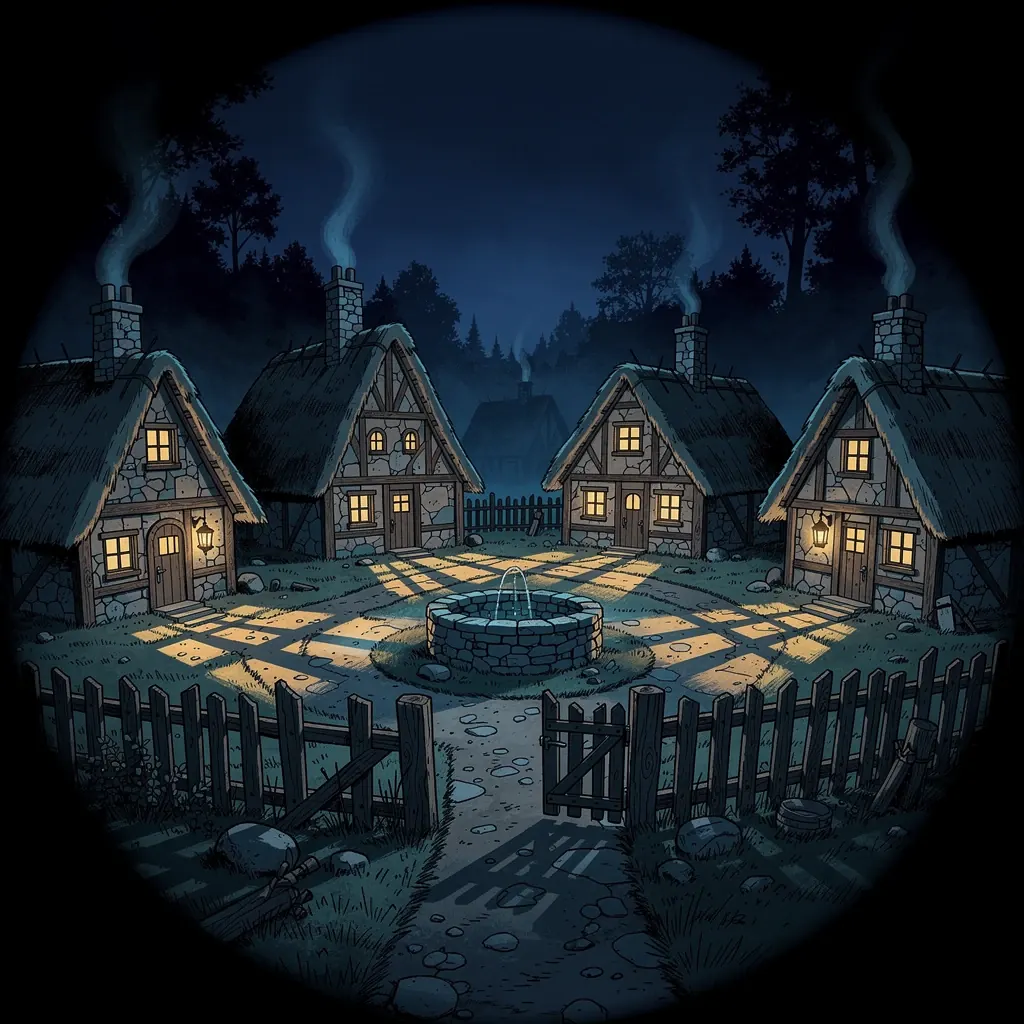
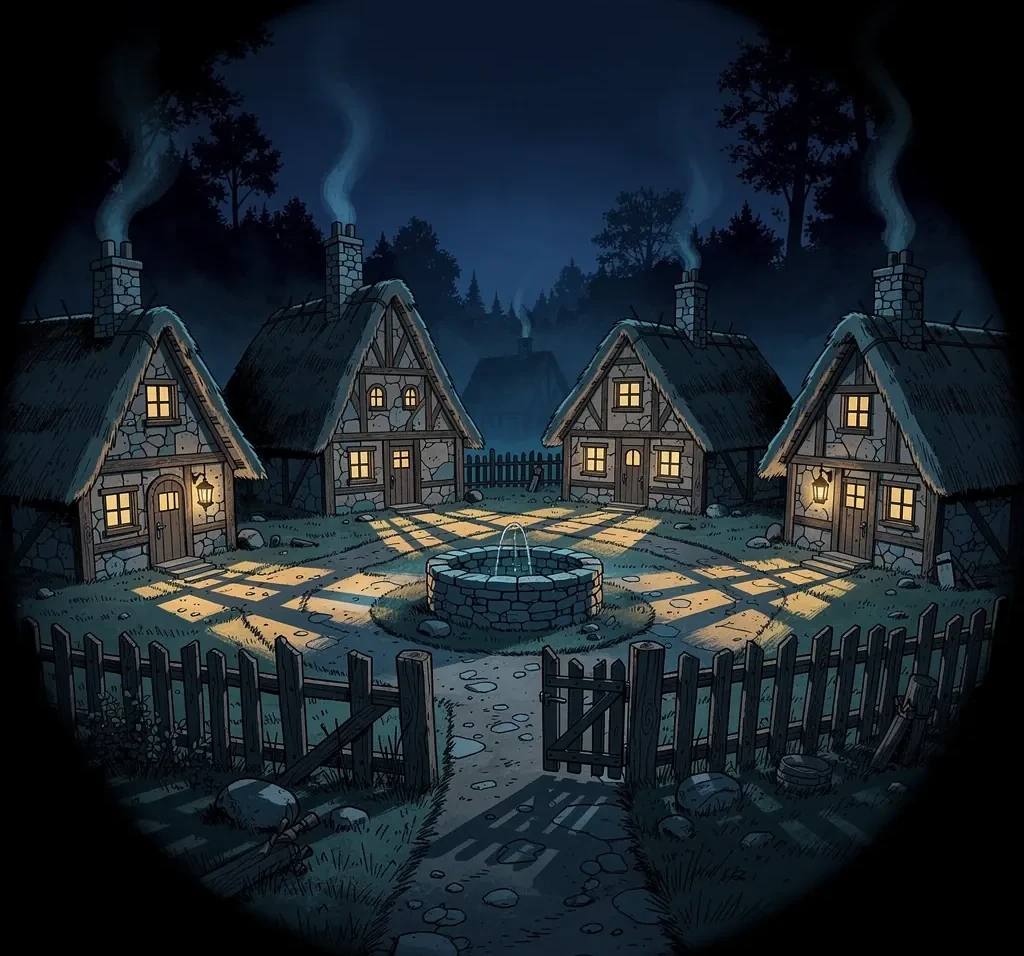
fix(ui): onboarding CTA fits, letterboxed backdrops cropped, stats pluralized
- fr 'Commencer mon aventure sportive' wrapped past the fixed button height;
  now 'Commencer l'aventure'.
- splash-bg3 / village tier_1 / tier_3 carried baked-in black letterbox bands
  that full-bleed cover rendering exposed as a dark strip under the status
  bar; the bands are cropped out of the assets themselves.
- Home stats row said '1 Quêtes'; quests_done and stats_a11y gain i18next
  _one/_other plurals in both languages.

diff --git a/components/home/StatsOverview.tsx b/components/home/StatsOverview.tsx
@@ -61,7 +61,7 @@ export function StatsOverview() {
           {totalStats?.totalSessions ?? 0}
         </Text>
         <Text fontSize={14} fontWeight="700" color="$textSecondary">
-          {t("home.quests_done", "Quests")}
+          {t("home.quests_done", { count: totalStats.totalSessions, defaultValue: "Quests" })}
         </Text>
       </XStack>
 
